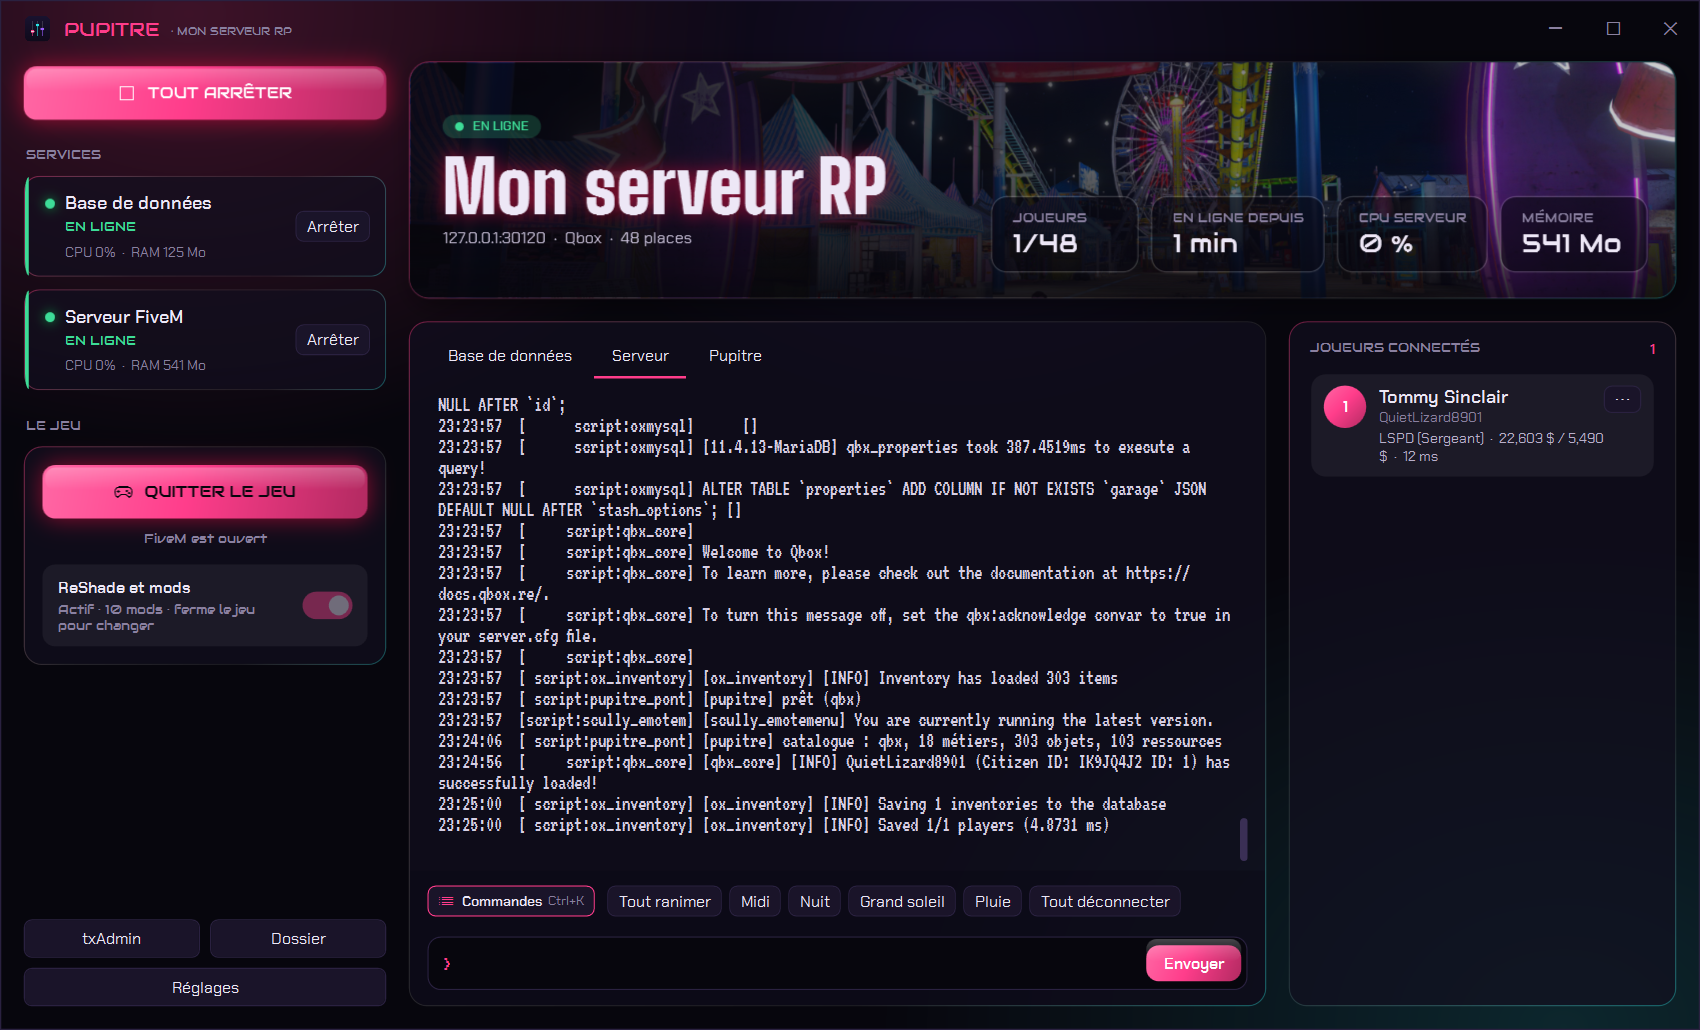
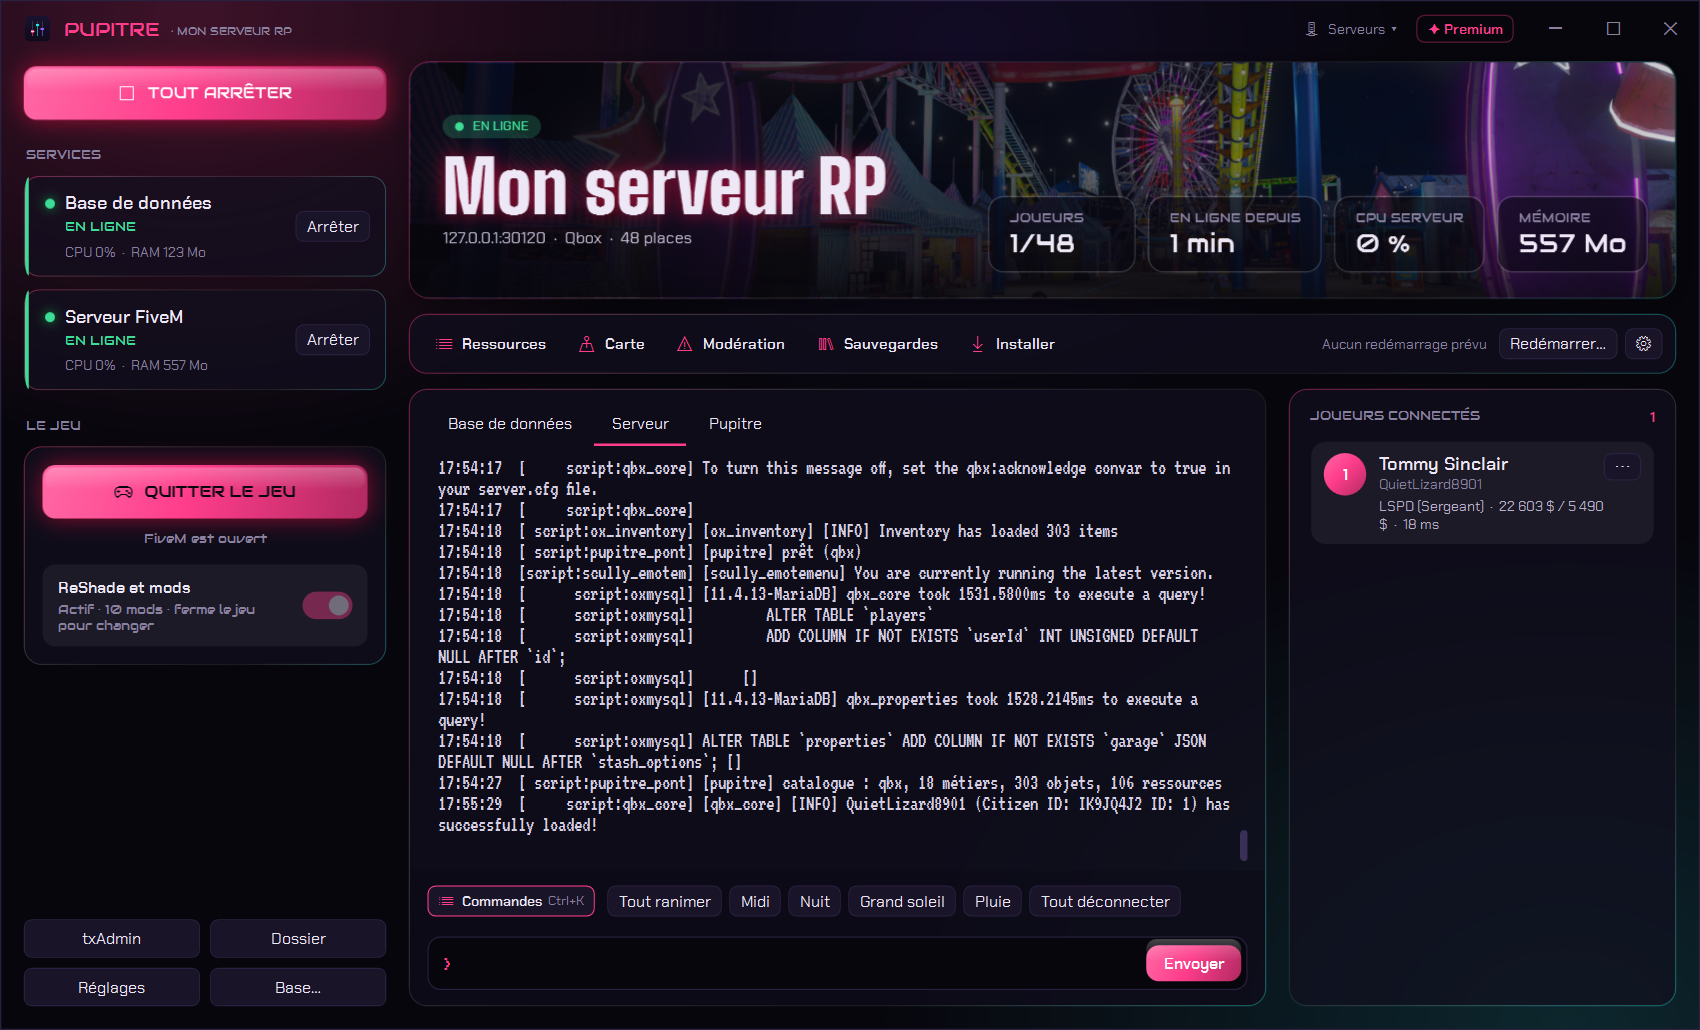
Pupitre 2.0.1 : nouvelles captures (barre d'outils, sanctions, carte, installateur, sauvegardes, automatismes)

diff --git a/README.md b/README.md
@@ -10,7 +10,7 @@
 
 <br>
 
-[![Télécharger](https://img.shields.io/badge/⬇_Télécharger-version_2.0.0-FF3D8B?style=for-the-badge&labelColor=12101C)](https://github.com/lerapeurdu62280-debug/Pupitre-Download/releases/latest)
+[![Télécharger](https://img.shields.io/badge/⬇_Télécharger-version_2.0.1-FF3D8B?style=for-the-badge&labelColor=12101C)](https://github.com/lerapeurdu62280-debug/Pupitre-Download/releases/latest)
 [![Windows](https://img.shields.io/badge/Windows-10%20%2F%2011-0078D6?style=for-the-badge&logo=windows&logoColor=white)](#%EF%B8%8F-configuration-requise)
 [![Gratuit](https://img.shields.io/badge/Gratuit-pour_toujours-3DDC97?style=for-the-badge&labelColor=12101C)](#-gratuit-ou-premium-)
 [![Premium](https://img.shields.io/badge/✦_Premium-20_€_à_vie-FF3D8B?style=for-the-badge&labelColor=12101C)](#-gratuit-ou-premium-)
@@ -20,7 +20,7 @@
 
 <img src="docs/screenshots/01-accueil.png" alt="Écran principal de Pupitre" width="900">
 
-<sub><i>Le serveur en ligne : services à gauche, journal en direct au centre, joueurs connectés à droite.</i></sub>
+<sub><i>Le serveur en ligne : services à gauche, outils sous la bannière, journal en direct au centre, joueurs connectés à droite.</i></sub>
 
 <br><br>
 
@@ -144,7 +144,7 @@ Tout ce qui sert à **faire tourner** le serveur reste **gratuit, pour toujours*
 <tr>
 <td width="50%" align="center">
 <img src="docs/screenshots/02-joueur.png" alt="Menu d'un joueur"><br>
-<b>1 · Clic droit sur un joueur</b><br><sub>Toutes les actions, jusqu'aux lieux de téléportation.</sub>
+<b>1 · Clic droit sur un joueur</b><br><sub>Toutes les actions, jusqu'aux sanctions (✦ Premium).</sub>
 </td>
 <td width="50%" align="center">
 <img src="docs/screenshots/03-commandes.png" alt="Palette de commandes"><br>
@@ -173,10 +173,22 @@ Tout ce qui sert à **faire tourner** le serveur reste **gratuit, pour toujours*
 </tr>
 <tr>
 <td width="50%" align="center">
-<img src="docs/screenshots/08-premium.png" alt="Licence Premium"><br>
-<b>7 · Gratuit ou Premium</b><br><sub>Le code machine à envoyer, la licence à coller.</sub>
+<img src="docs/screenshots/11-installer.png" alt="Installer des scripts"><br>
+<b>7 · ✦ Installer des scripts</b><br><sub>Un lien GitHub suffit : version, dépendances et portes dérobées vérifiées.</sub>
 </td>
 <td width="50%" align="center">
+<img src="docs/screenshots/09-sauvegardes.png" alt="Sauvegardes de la base"><br>
+<b>8 · ✦ Sauvegardes de la base</b><br><sub>Automatiques, et restauration en un clic.</sub>
+</td>
+</tr>
+<tr>
+<td width="50%" align="center">
+<img src="docs/screenshots/10-automatismes.png" alt="Automatismes"><br>
+<b>9 · ✦ Automatismes</b><br><sub>Redémarrages, relance, sauvegardes, Discord et bot.</sub>
+</td>
+<td width="50%" align="center">
+<img src="docs/screenshots/08-premium.png" alt="Licence Premium"><br>
+<b>10 · Gratuit ou Premium</b><br><sub>Le code machine à envoyer, la licence à coller.</sub>
 </td>
 </tr>
 </table>
